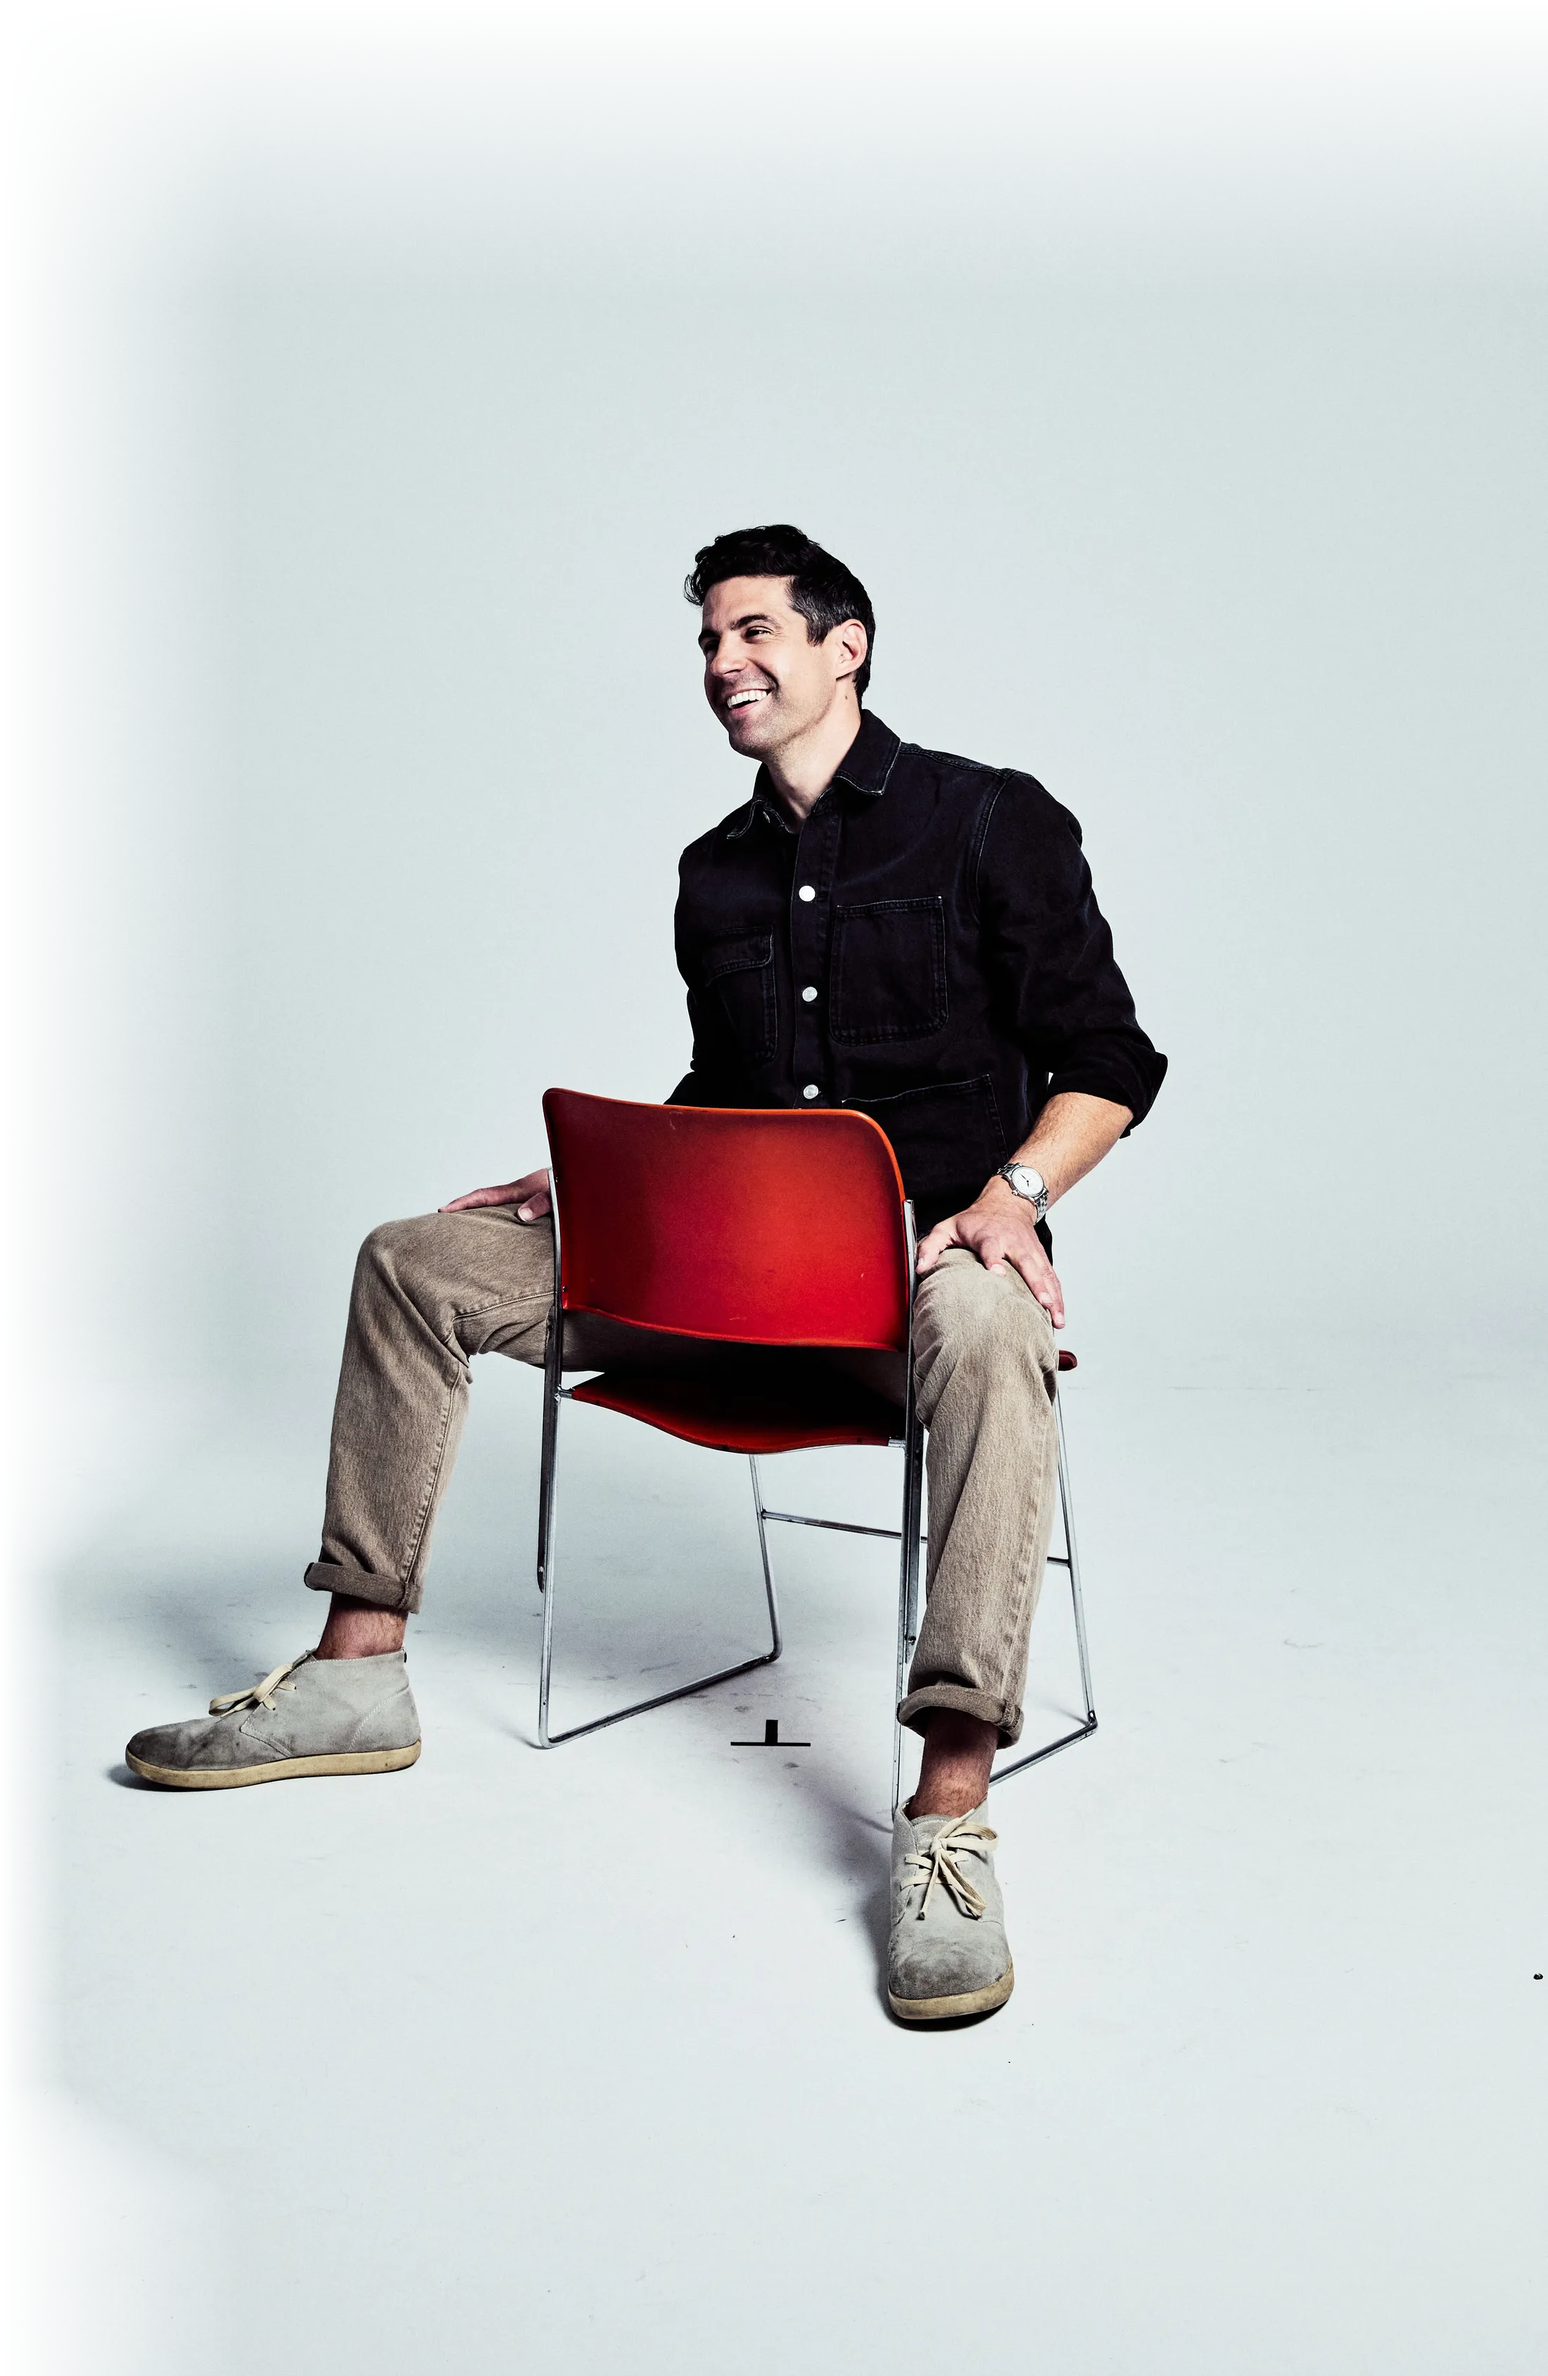
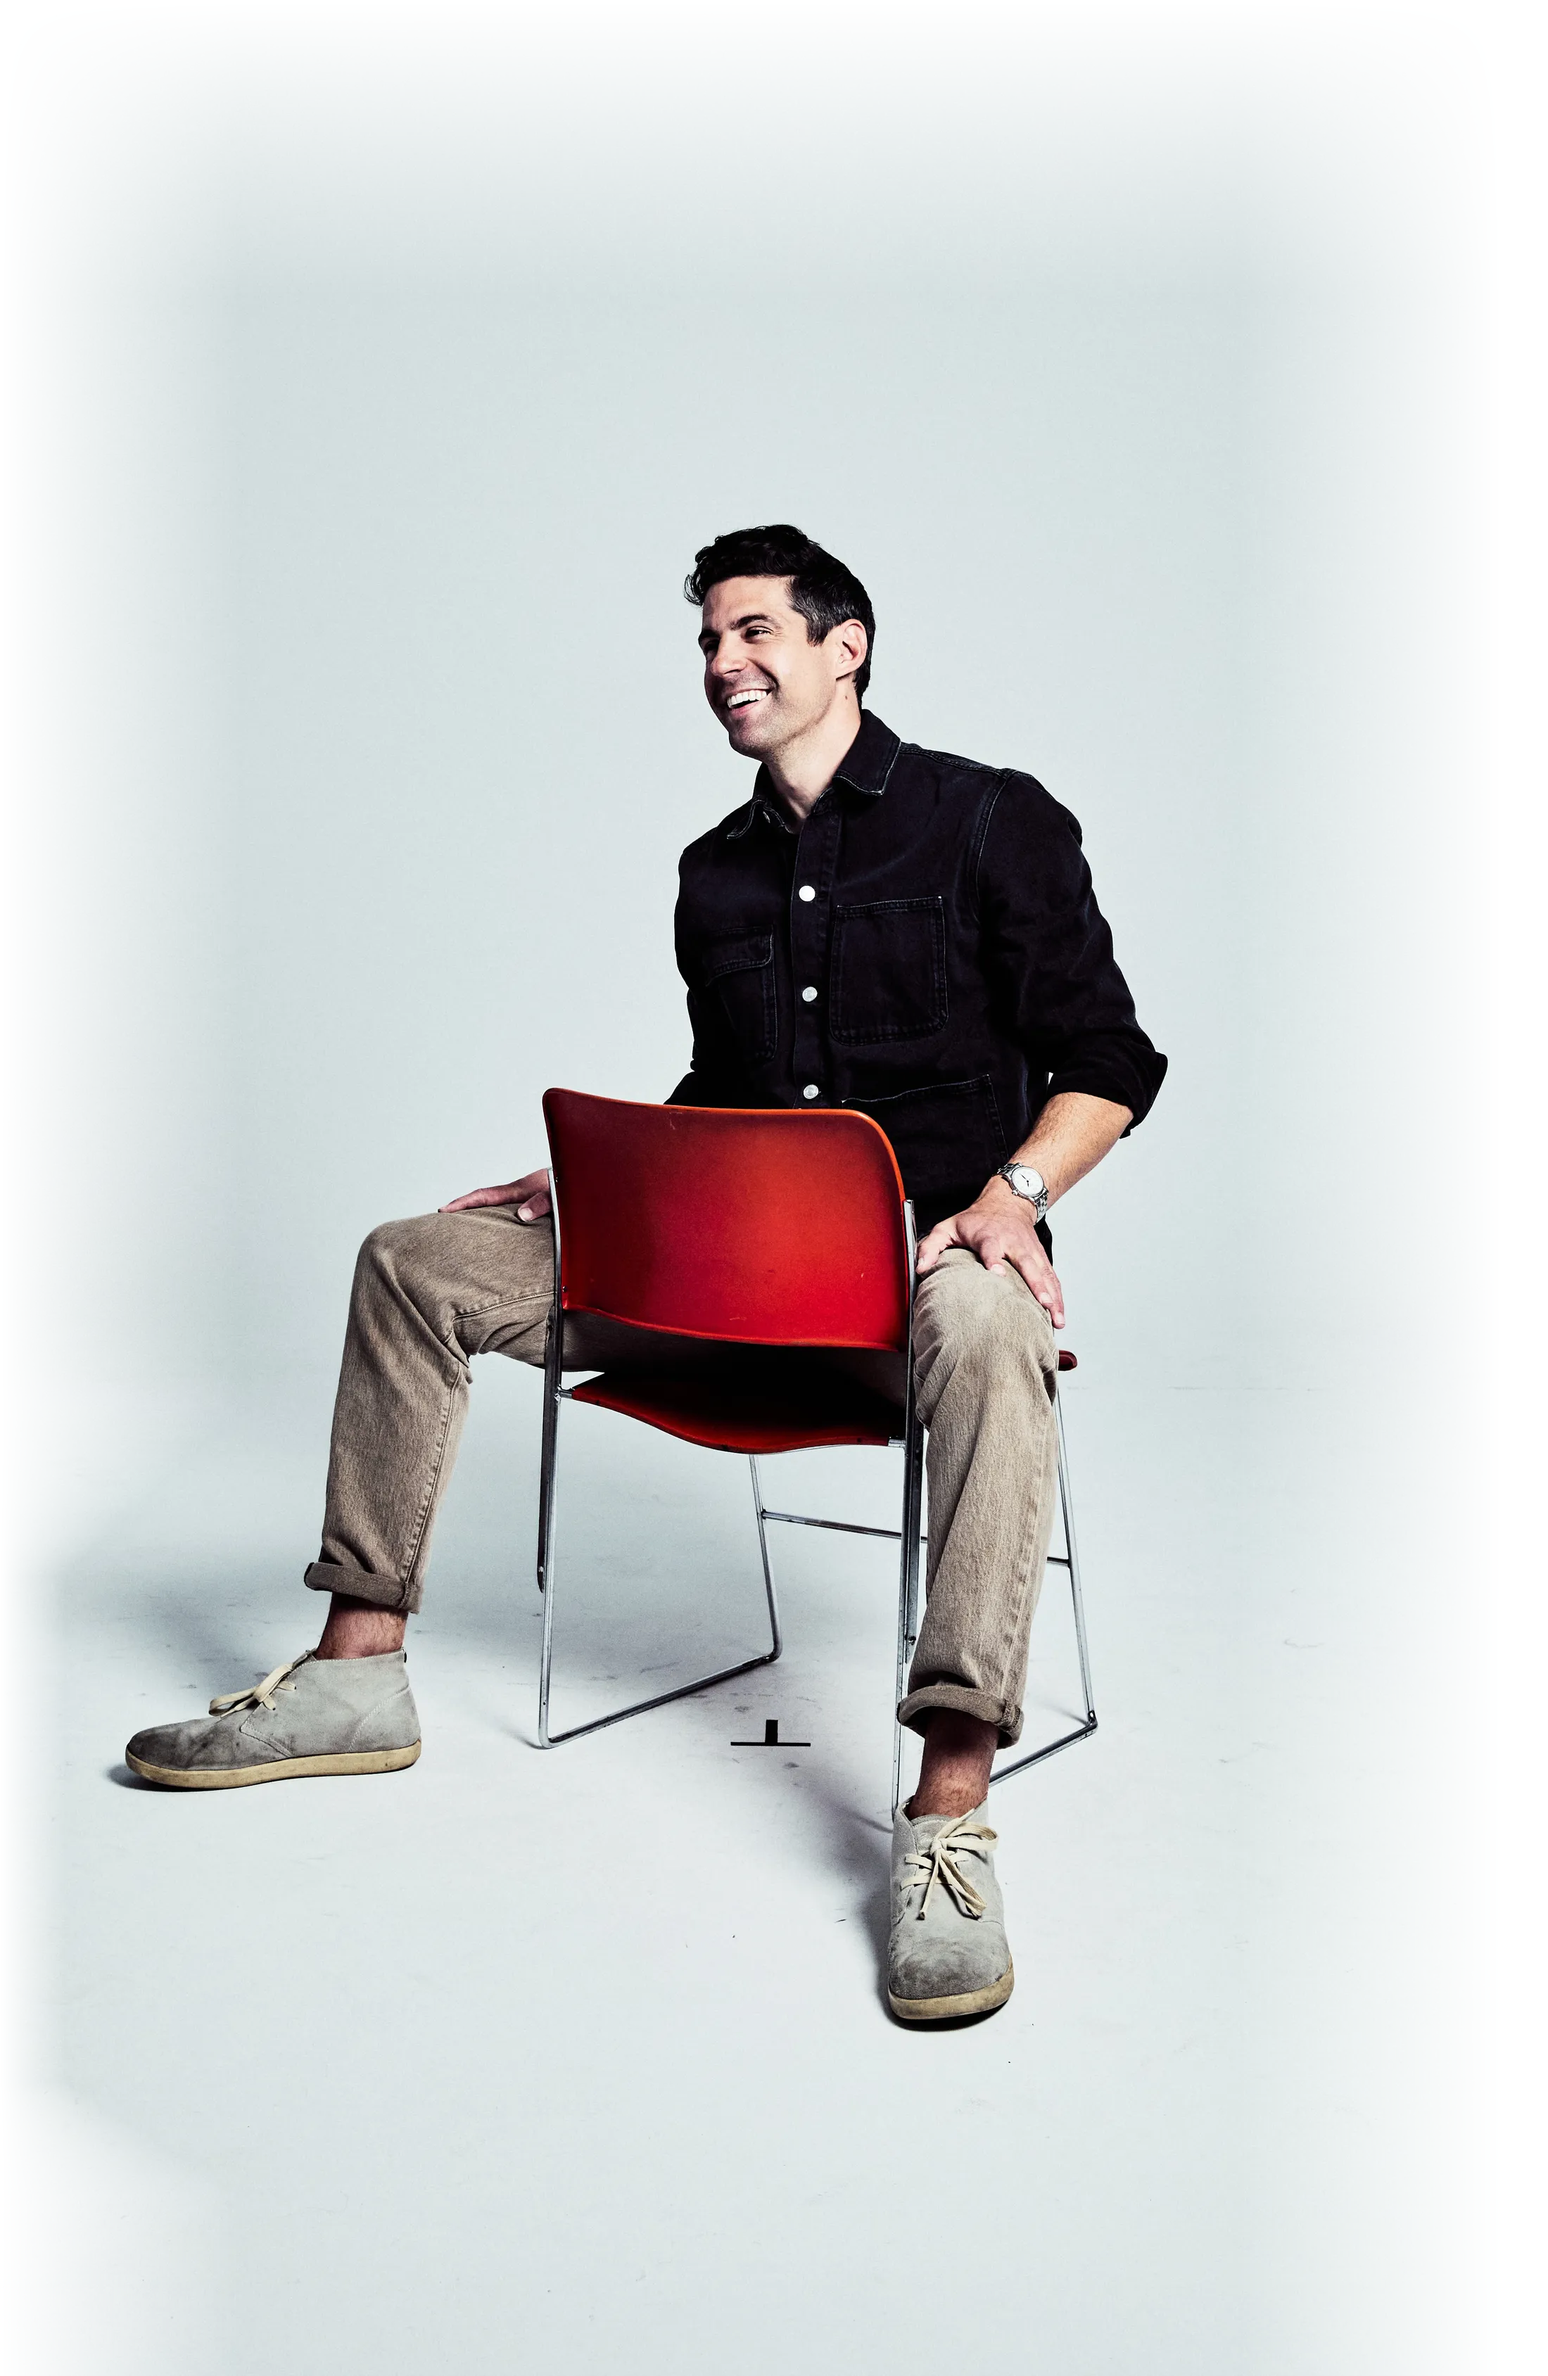
Pull photo 80px in from right margin on desktop
Right-edge fade baked into the photo so no seam shows; mobile keeps
right:0 and identical layout.

Changed region(s): [[0.8655, 0.0622, 1.0, 1.0]]

diff --git a/index.html b/index.html
@@ -74,6 +74,11 @@
     z-index:1;
   }
 
+  /* desktop: pull the photo in from the right margin (right edge has a baked fade) */
+  @media (min-width: 861px) {
+    .photo img { right:80px; }
+  }
+
   @media (max-width: 860px) {
     .photo img { height:auto; width:88vw; }
     .wrap { padding-top:40px; }
